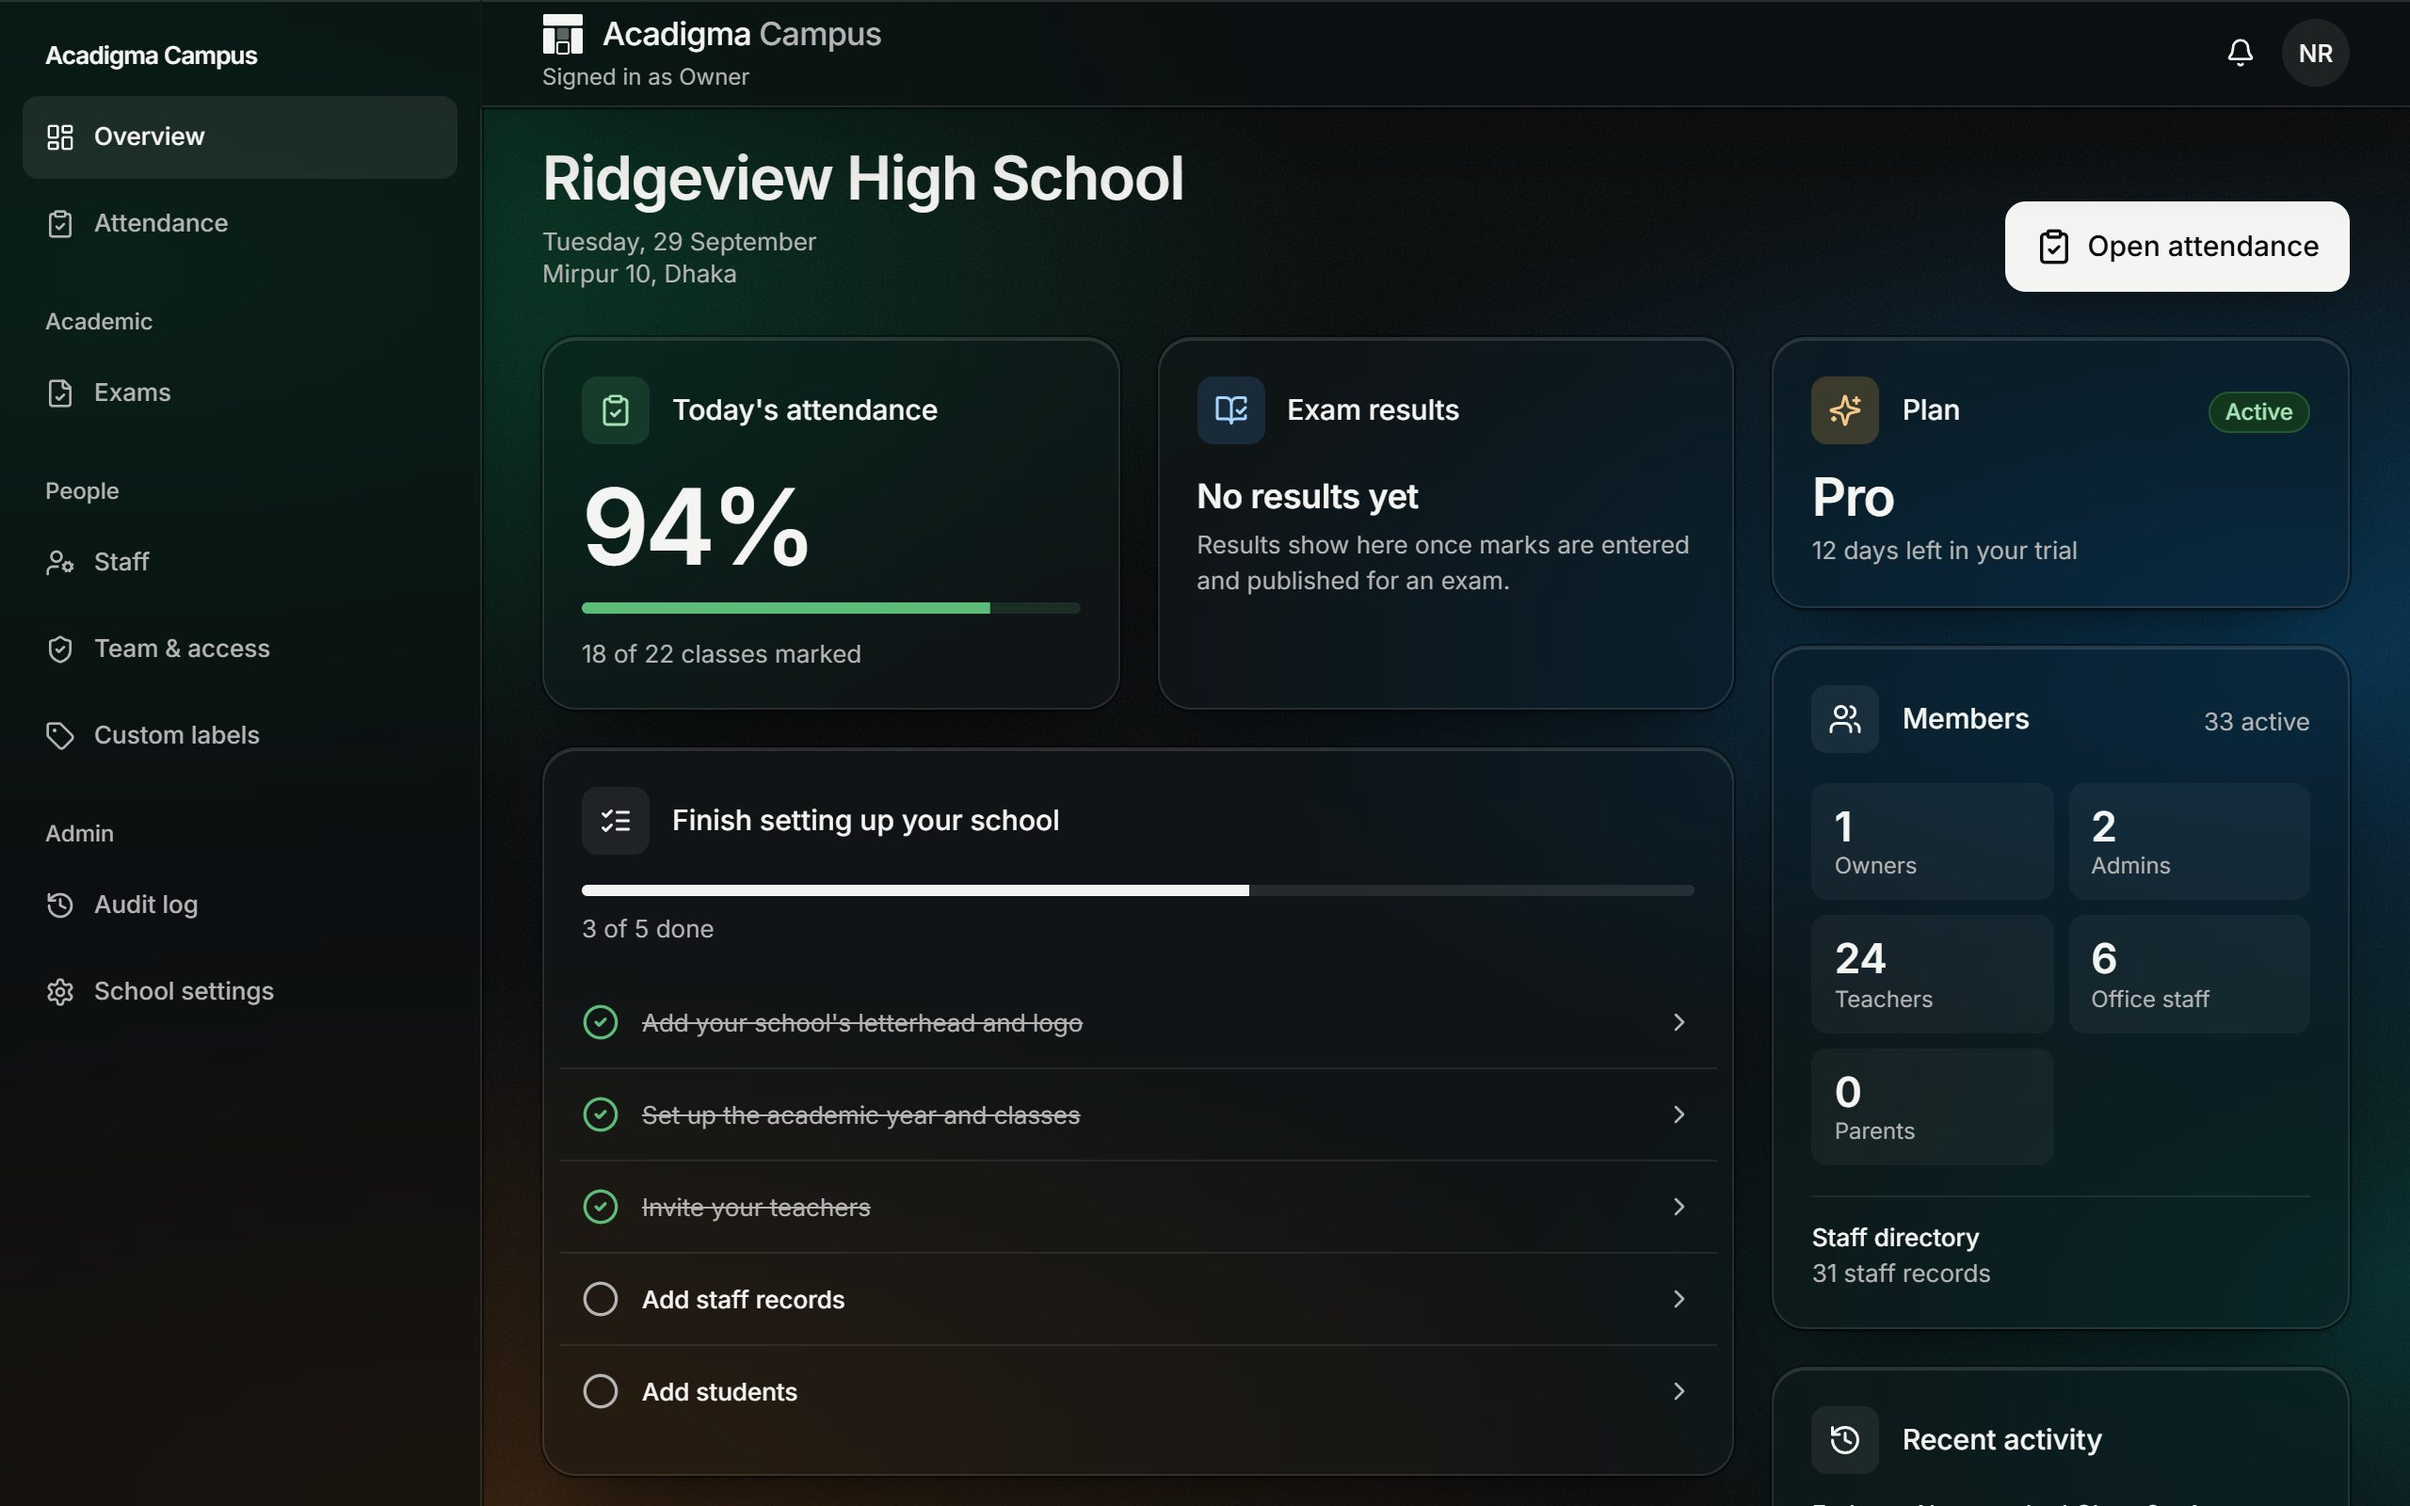
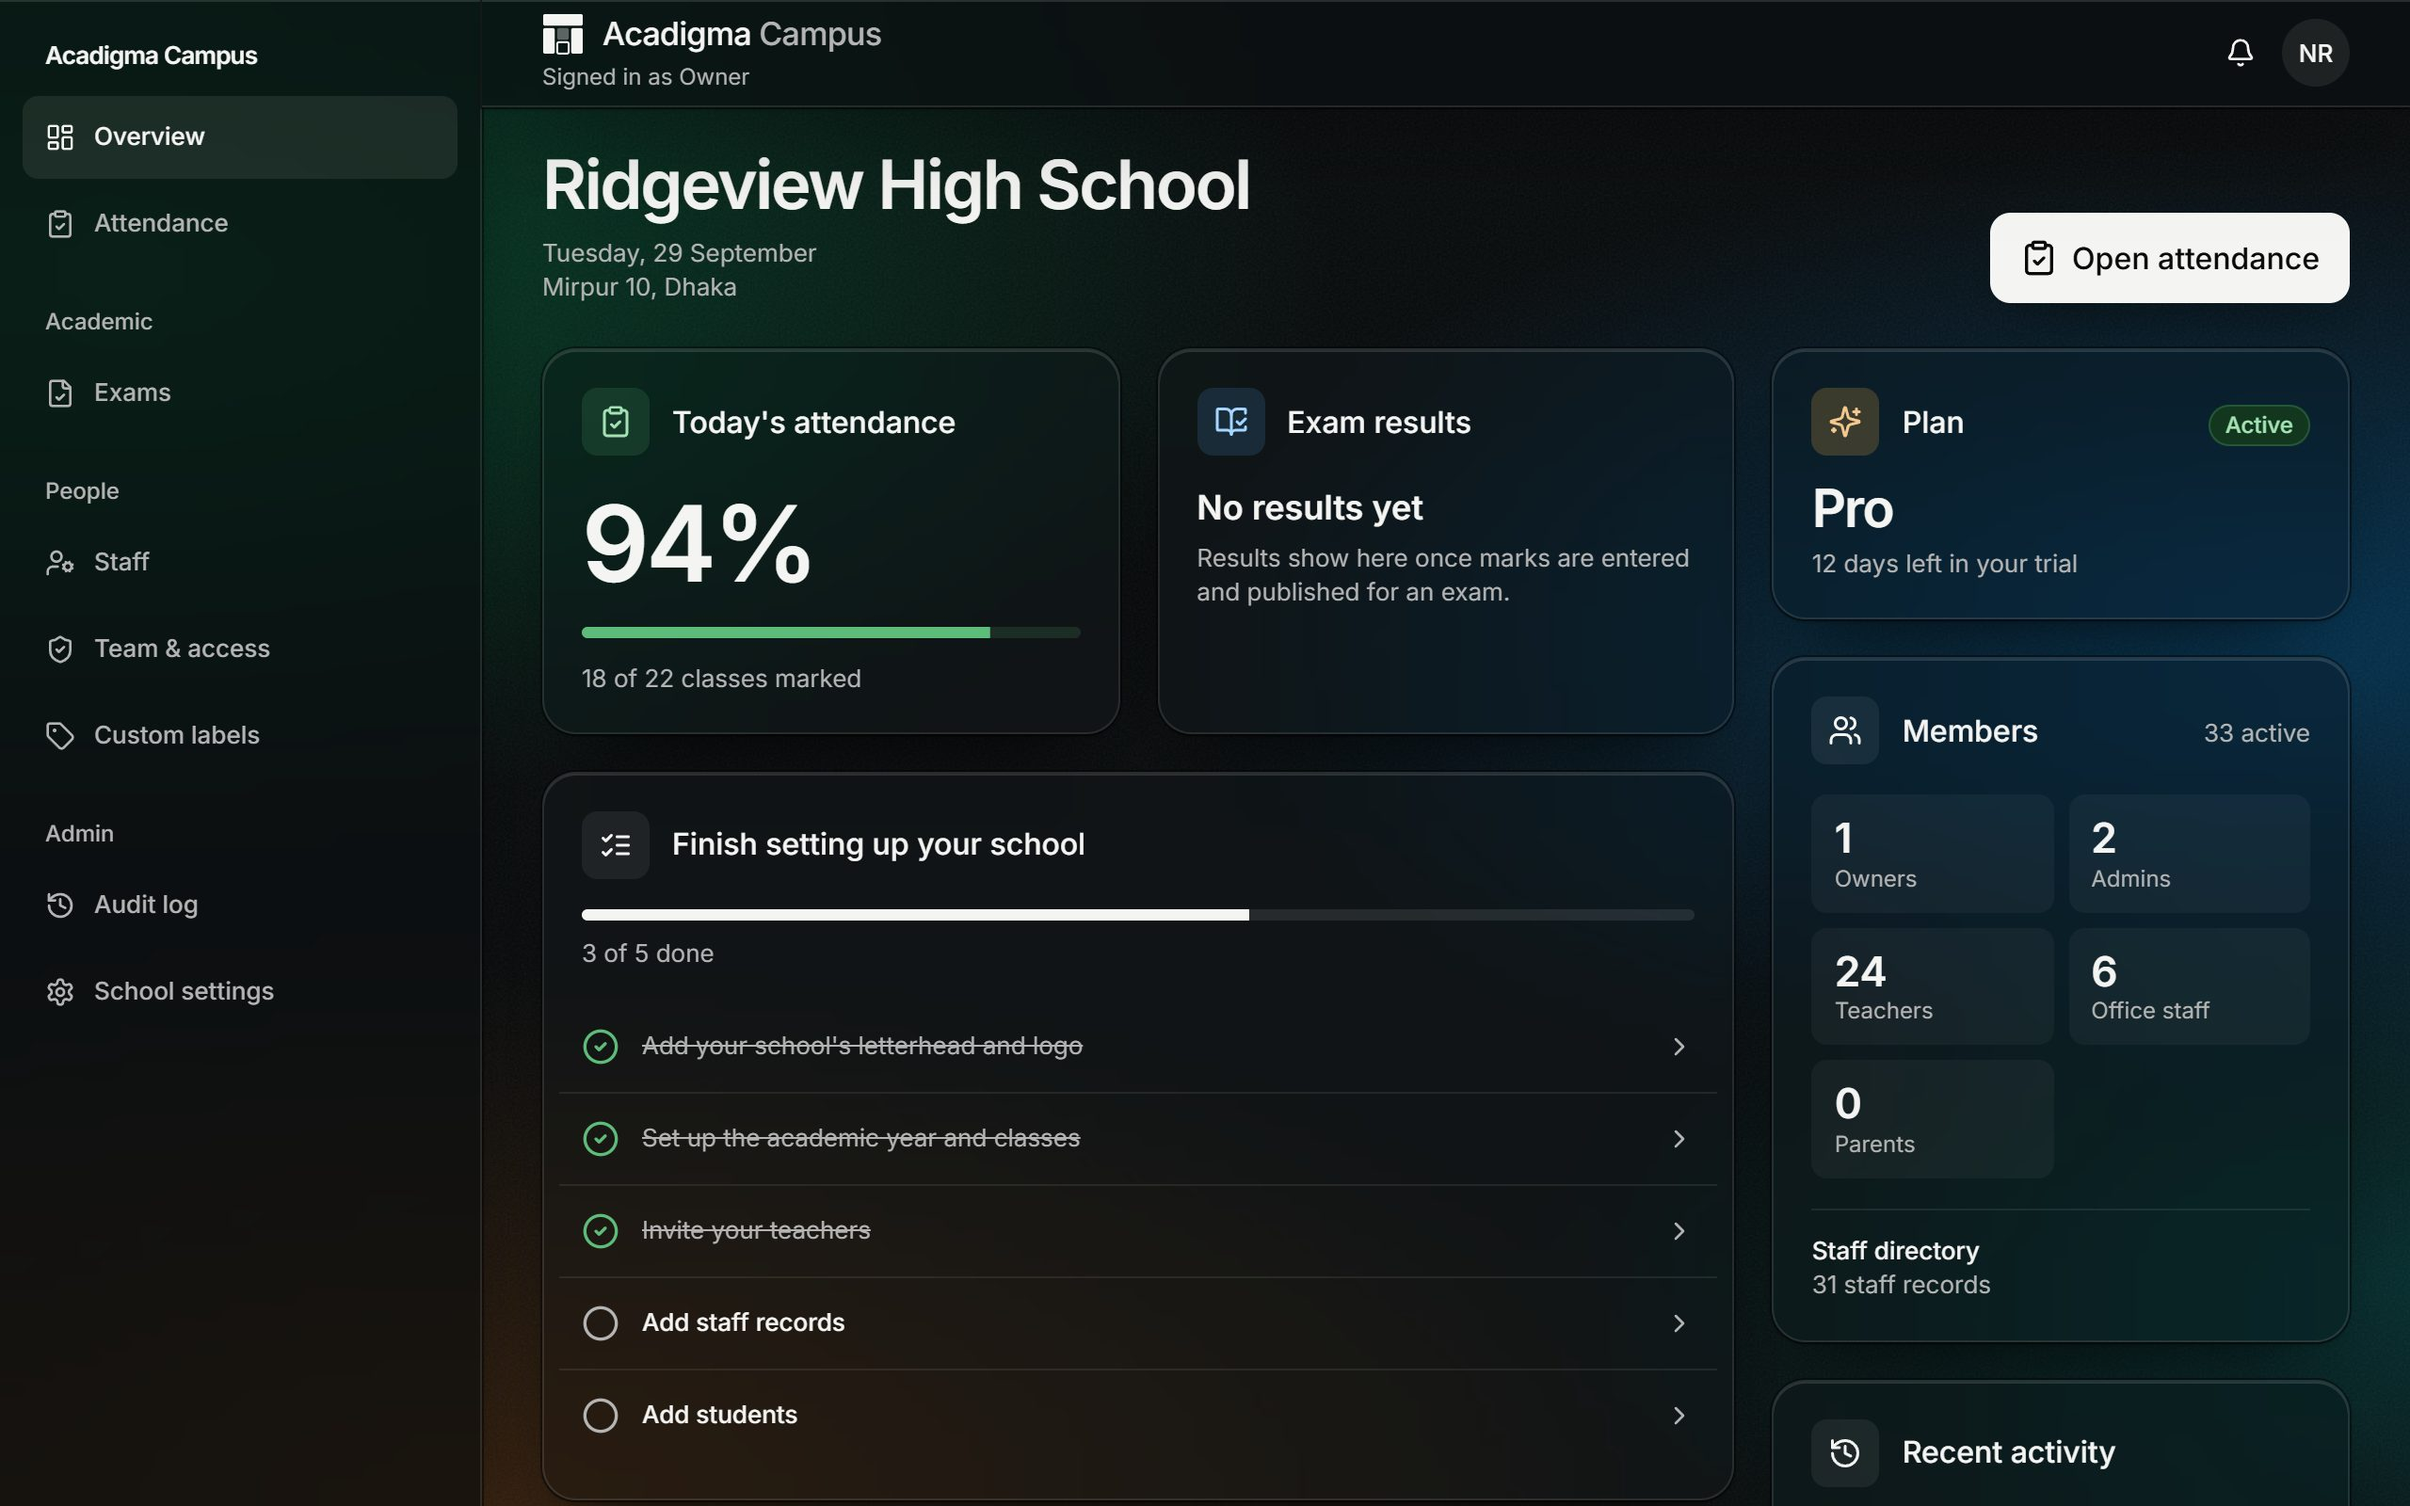
docs(design): DESIGN-SYSTEM §0 Reference; type on scale (--text-4xl); prefers-contrast solid glass; retaken screenshots

diff --git a/apps/web/app/(school)/app/dashboard/dashboard-view.tsx b/apps/web/app/(school)/app/dashboard/dashboard-view.tsx
@@ -68,7 +68,7 @@ const fill = (template: string, values: Record<string, string | number>) =>
   template.replace(/\{(\w+)\}/g, (_, key: string) => String(values[key] ?? ""))
 
 /** Card titles are real headings (h3 under the page's h2). */
-const TITLE = "text-[0.9375rem] leading-tight font-medium"
+const TITLE = "text-base leading-tight font-medium"
 
 export function DashboardView(props: DashboardViewProps) {
   const { t, isManager } = props
@@ -77,7 +77,7 @@ export function DashboardView(props: DashboardViewProps) {
       href={props.attendanceHref}
       className={cn(
         buttonVariants({ size: "lg" }),
-        "h-12 rounded-2xl px-5 text-[0.9375rem] shadow-[0_12px_28px_-12px_rgb(0_0_0/0.45)]"
+        "h-12 rounded-2xl px-5 text-base shadow-[0_12px_28px_-12px_rgb(0_0_0/0.45)]"
       )}
     >
       <ClipboardCheckIcon className="size-5" aria-hidden="true" />
@@ -89,7 +89,7 @@ export function DashboardView(props: DashboardViewProps) {
     <div className="space-y-5 lg:space-y-6">
       <header className="flex items-end justify-between gap-4 pt-1">
         <div className="min-w-0">
-          <h2 className="text-[1.75rem] leading-[1.15] font-semibold tracking-[-0.02em] lg:text-[2rem]">
+          <h2 className="text-2xl leading-tight font-semibold tracking-tight lg:text-3xl">
             {props.schoolName}
           </h2>
           <div className="text-muted-foreground mt-1.5 text-sm leading-snug">
@@ -232,7 +232,7 @@ function AttendanceCard({
           <span className="sr-only">{attendance.rate}</span>
           <span
             aria-hidden="true"
-            className="text-[3.5rem] font-semibold tracking-[-0.04em] tabular-nums"
+            className="text-4xl font-semibold tracking-tight tabular-nums"
           >
             {attendance.percent}
           </span>
@@ -263,9 +263,7 @@ function SlotCard(props: {
     <Card variant="glass" className="gap-4 py-5">
       <CardTop icon={props.icon} tone={props.tone} title={props.title} />
       <div className="space-y-1 px-5">
-        <p className="text-lg leading-snug font-semibold tracking-[-0.01em]">
-          {props.emptyTitle}
-        </p>
+        <p className="text-lg leading-snug font-semibold">{props.emptyTitle}</p>
         <p className="text-muted-foreground text-sm">
           {props.emptyDescription}
         </p>
@@ -379,7 +377,7 @@ function PlanCard({
         }
       />
       <div className="space-y-0.5 px-5">
-        <p className="text-[1.75rem] leading-tight font-semibold tracking-[-0.02em] capitalize">
+        <p className="text-2xl leading-tight font-semibold tracking-tight capitalize">
           {plan.label}
         </p>
         {plan.trial ? (

diff --git a/packages/ui/tokens/tokens.css b/packages/ui/tokens/tokens.css
@@ -212,7 +212,8 @@
   --text-lg: 1.125rem; /* 18px — card titles, sheet titles                  */
   --text-xl: 1.375rem; /* 22px — page titles on phone                       */
   --text-2xl: 1.75rem; /* 28px — stat tile values, page titles ≥lg          */
-  --text-3xl: 2.25rem; /* 36px — the single hero number on a dashboard      */
+  --text-3xl: 2.25rem; /* 36px — page title ≥lg on the dashboard            */
+  --text-4xl: 3.5rem; /* 56px — the one hero number on a glass card (D-408) */
 
   --leading-tight: 1.2; /* Latin display only                                */
   --leading-snug: 1.35; /* Latin UI                                          */
@@ -1081,7 +1082,20 @@
   }
 }
 
-@media (prefers-reduced-transparency: reduce) {
+/* Also under "increase contrast": solid surfaces with a defined edge. */
+@media (prefers-contrast: more) {
+  .glass-chrome,
+  .glass-panel,
+  .glass-overlay {
+    border-color: color-mix(
+      in srgb,
+      var(--foreground) 40%,
+      transparent
+    ) !important;
+  }
+}
+
+@media (prefers-reduced-transparency: reduce), (prefers-contrast: more) {
   .glass-chrome,
   .glass-panel,
   .glass-overlay,

diff --git a/packages/ui/src/primitives/bottom-nav.tsx b/packages/ui/src/primitives/bottom-nav.tsx
@@ -120,7 +120,7 @@ export function BottomNav({
 function bottomNavItemClass(active: boolean) {
   return cn(
     // Full 56px tile height is the target, not just the icon (§3.1).
-    "flex h-14 w-full flex-col items-center justify-center gap-0.5 rounded-[1.125rem] px-1 py-2 text-[0.6875rem]",
+    "flex h-14 w-full flex-col items-center justify-center gap-0.5 rounded-[var(--radius-glass)] px-1 py-2 text-[0.6875rem]",
     "focus-visible:ring-ring outline-none focus-visible:ring-2 focus-visible:ring-inset",
     // app-polish: tap feedback (<150ms scale) on every pressable.
     "transition-[color,background-color,transform] duration-150 ease-out active:scale-95",

diff --git a/apps/web/app/(school)/app/settings/appearance/appearance-form.tsx b/apps/web/app/(school)/app/settings/appearance/appearance-form.tsx
@@ -132,7 +132,7 @@ export function AppearanceForm({ locale }: { locale: Locale }) {
               <Label
                 key={option.value}
                 htmlFor={`locale-${option.value}`}
-                className="flex min-h-12 cursor-pointer items-center gap-3 px-5 py-3 text-[0.9375rem] font-normal"
+                className="flex min-h-12 cursor-pointer items-center gap-3 px-5 py-3 text-base font-normal"
               >
                 <RadioGroupItem
                   id={`locale-${option.value}`}

diff --git a/docs/architecture/DESIGN-SYSTEM.md b/docs/architecture/DESIGN-SYSTEM.md
@@ -17,6 +17,90 @@ prototype did, and why most of it is not being kept).
 
 ---
 
+## 0. Reference (v2, D-408): read this before building a screen
+
+The one-page contract. Start from the closest approved screen in
+[`design-reference/`](design-reference/) and these values. Do not start from
+a blank page or from a component library's defaults. Values live in
+`packages/ui/tokens/tokens.css`; this table is their meaning.
+
+### 0.1 Approved screens
+
+| Screen                            | Light                                           | Dark                                           |
+| --------------------------------- | ----------------------------------------------- | ---------------------------------------------- |
+| Dashboard, phone 360×800          | `design-reference/dashboard-light-phone.jpg`    | `design-reference/dashboard-dark-phone.jpg`    |
+| Dashboard, desktop 1280×800       | `design-reference/dashboard-light-desktop.jpg`  | `design-reference/dashboard-dark-desktop.jpg`  |
+| Sub-page with shell back, phone   | `design-reference/appearance-light-phone.jpg`   | `design-reference/appearance-dark-phone.jpg`   |
+| Sub-page with shell back, desktop | `design-reference/appearance-light-desktop.jpg` | `design-reference/appearance-dark-desktop.jpg` |
+| Bottom sheet (More), phone        | `design-reference/sheet-light-phone.jpg`        | `design-reference/sheet-dark-phone.jpg`        |
+
+### 0.2 Colour
+
+| Token                                                             | Light                                      | Dark                                | For                                                                   |
+| ----------------------------------------------------------------- | ------------------------------------------ | ----------------------------------- | --------------------------------------------------------------------- |
+| `--ambient-base` + `--ambient-gradient`                           | `#edf1ef` + green/sky/marigold/teal washes | `#070a0b` + the same hues, deepened | The page. Only `AppShell` paints it. Never cream.                     |
+| `--foreground`                                                    | `#0b0b0b`                                  | `#f4f4f2`                           | Primary text, big numbers.                                            |
+| `--glass-muted-foreground` (as `--muted-foreground` in the shell) | `#4a4a4a`                                  | `#b4b4b4`                           | Secondary text on glass or on the mesh.                               |
+| `--muted-foreground` (outside the shell)                          | `#636363`                                  | `#8e8e8e`                           | Secondary text on paper (auth, onboarding, print).                    |
+| `--glass-bg` / `-panel` / `-overlay`                              | white 72 / 42 / 82 %                       | near-black 72 / 62 / 86 %           | Chrome / resting cards / sheets and dialogs.                          |
+| `--primary` / `--primary-foreground`                              | `#0b0b0b` / `#f4f4f2`                      | `#f4f4f2` / `#0b0b0b`               | The one primary action per screen (a solid ink button).               |
+| `--success` · `--info` · `--warning` · `--danger`                 | green · blue · amber · red                 | lighter versions of each            | Meaning only: status, icon chips (`/15` tint + `-ink` glyph), charts. |
+| `--card` / `--popover` / `--background`                           | `#fbfbfa` / `#fbfbfa` / `#f4f4f2`          | `#121212` / `#121212` / `#0b0b0b`   | Opaque surfaces: glass fallbacks, lists, forms, print.                |
+
+Nothing else carries a hue. No gradient except the ambient mesh.
+
+### 0.3 Type (Inter + Hind Siliguri; 1.125 minor third)
+
+| Token           | Size    | For                                                       |
+| --------------- | ------- | --------------------------------------------------------- |
+| `text-4xl`      | 56px    | The one hero number on a glass card (attendance).         |
+| `text-3xl`      | 36px    | Dashboard page title from `lg`.                           |
+| `text-2xl`      | 28px    | Page title on phone; a card's secondary big value (plan). |
+| `text-lg`       | 18px    | An empty card's headline; sheet titles.                   |
+| `text-base`     | 16px    | Body, card titles, list rows, buttons.                    |
+| `text-sm`       | 13px    | Captions, counts, descriptions.                           |
+| `text-xs`/`2xs` | 12/11px | Timestamps; tab-bar labels.                               |
+
+Weights 400/500/600 only. `tracking-tight` on Latin headings, never on
+Bengali. Numbers are `tabular-nums`. Sentence case everywhere, with no
+uppercase labels and no monospace in UI chrome.
+
+### 0.4 Space and size
+
+A 4px grid: `--space-1…20` = 4, 8, 12, 16, 20, 24, 32, 40, 48, 64, 80. The
+page gutter is 16px on phone and 24–32px from `sm`. Cards are padded 20px
+with 16–20px gaps. Every target is ≥ 44px; tab-bar tiles are 56px.
+
+### 0.5 Glass recipe
+
+A fill from `--glass-bg*`, `backdrop-filter: blur(24px) saturate(180% | 150%)`,
+a 1px `--glass-border`, an inner 1px top highlight, `--glass-shadow-1` plus
+`--glass-shadow-2`, and radius `--radius-glass` (18px). Use `glass-chrome`,
+`glass-panel` or `glass-overlay`; never hand-roll the recipe. Only chrome, a
+screen's few resting cards and overlays are glass, never one card per list
+row. After touching any glass or mesh token, run
+`node scripts/check-glass-contrast.mjs`. Full rules: §1.8.
+
+### 0.6 Five things this product must never do
+
+1. **A cream or beige page, or a flat grey one.** The page is the ambient mesh.
+2. **Monospace, uppercase or tracked-out eyebrow labels**, or numbered
+   "01 / 02" section markers on content that is not a sequence.
+3. **Pill buttons everywhere, or more than one filled button on a screen.**
+   There is one ink primary; everything else is ghost, outline or a link.
+   Buttons are rounded rectangles (6–16px), not pills.
+4. **A spinner where the content's shape is known.** Use a `Skeleton` in
+   the final layout.
+5. **An untranslated string.** Every piece of copy exists in English and
+   Bengali, from `messages/*.json` or, temporarily, an inline
+   `locale === "bn"` pair.
+
+Also never: purple-to-blue "AI" gradients, italic accent words in
+headlines, a page-level back link (the shell owns back, §3.1), blur on a
+scrolling list, or text below 4.5:1.
+
+---
+
 ## 1. Design direction
 
 ### 1.1 The read
